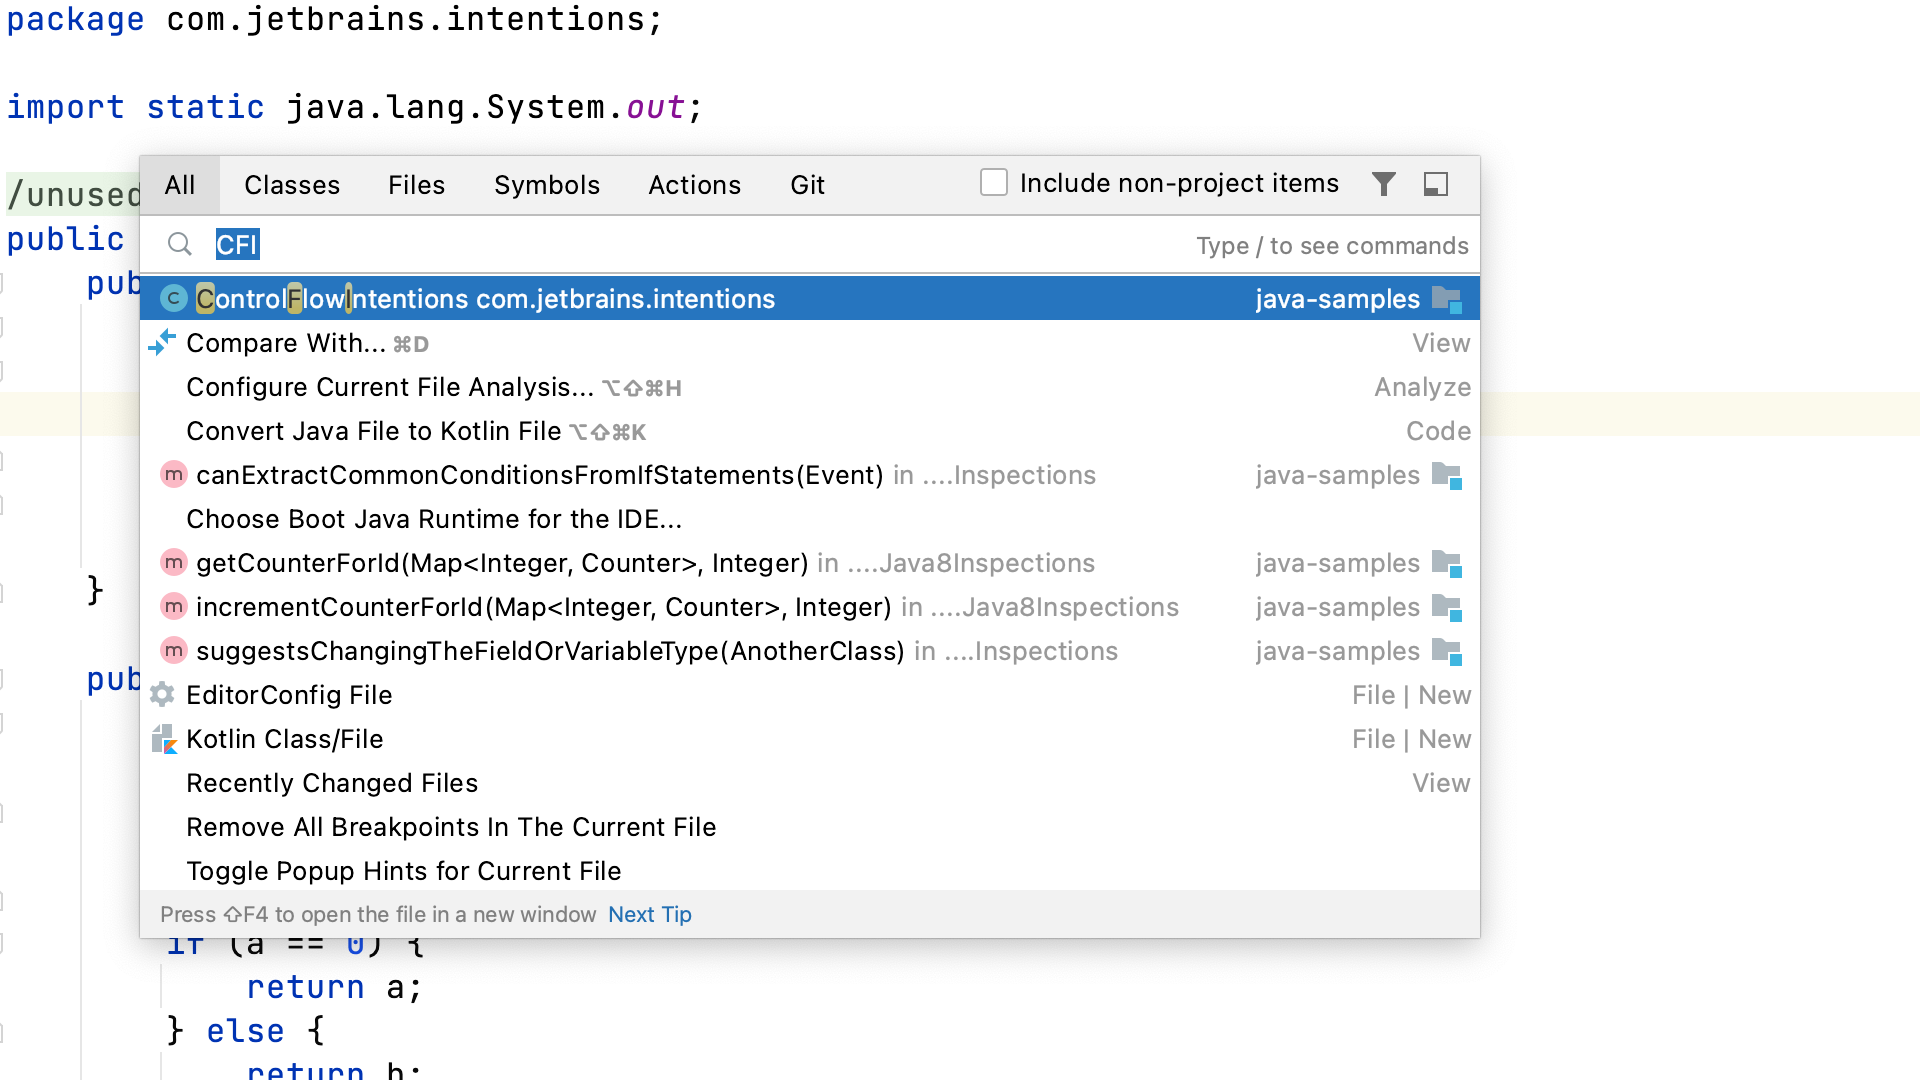
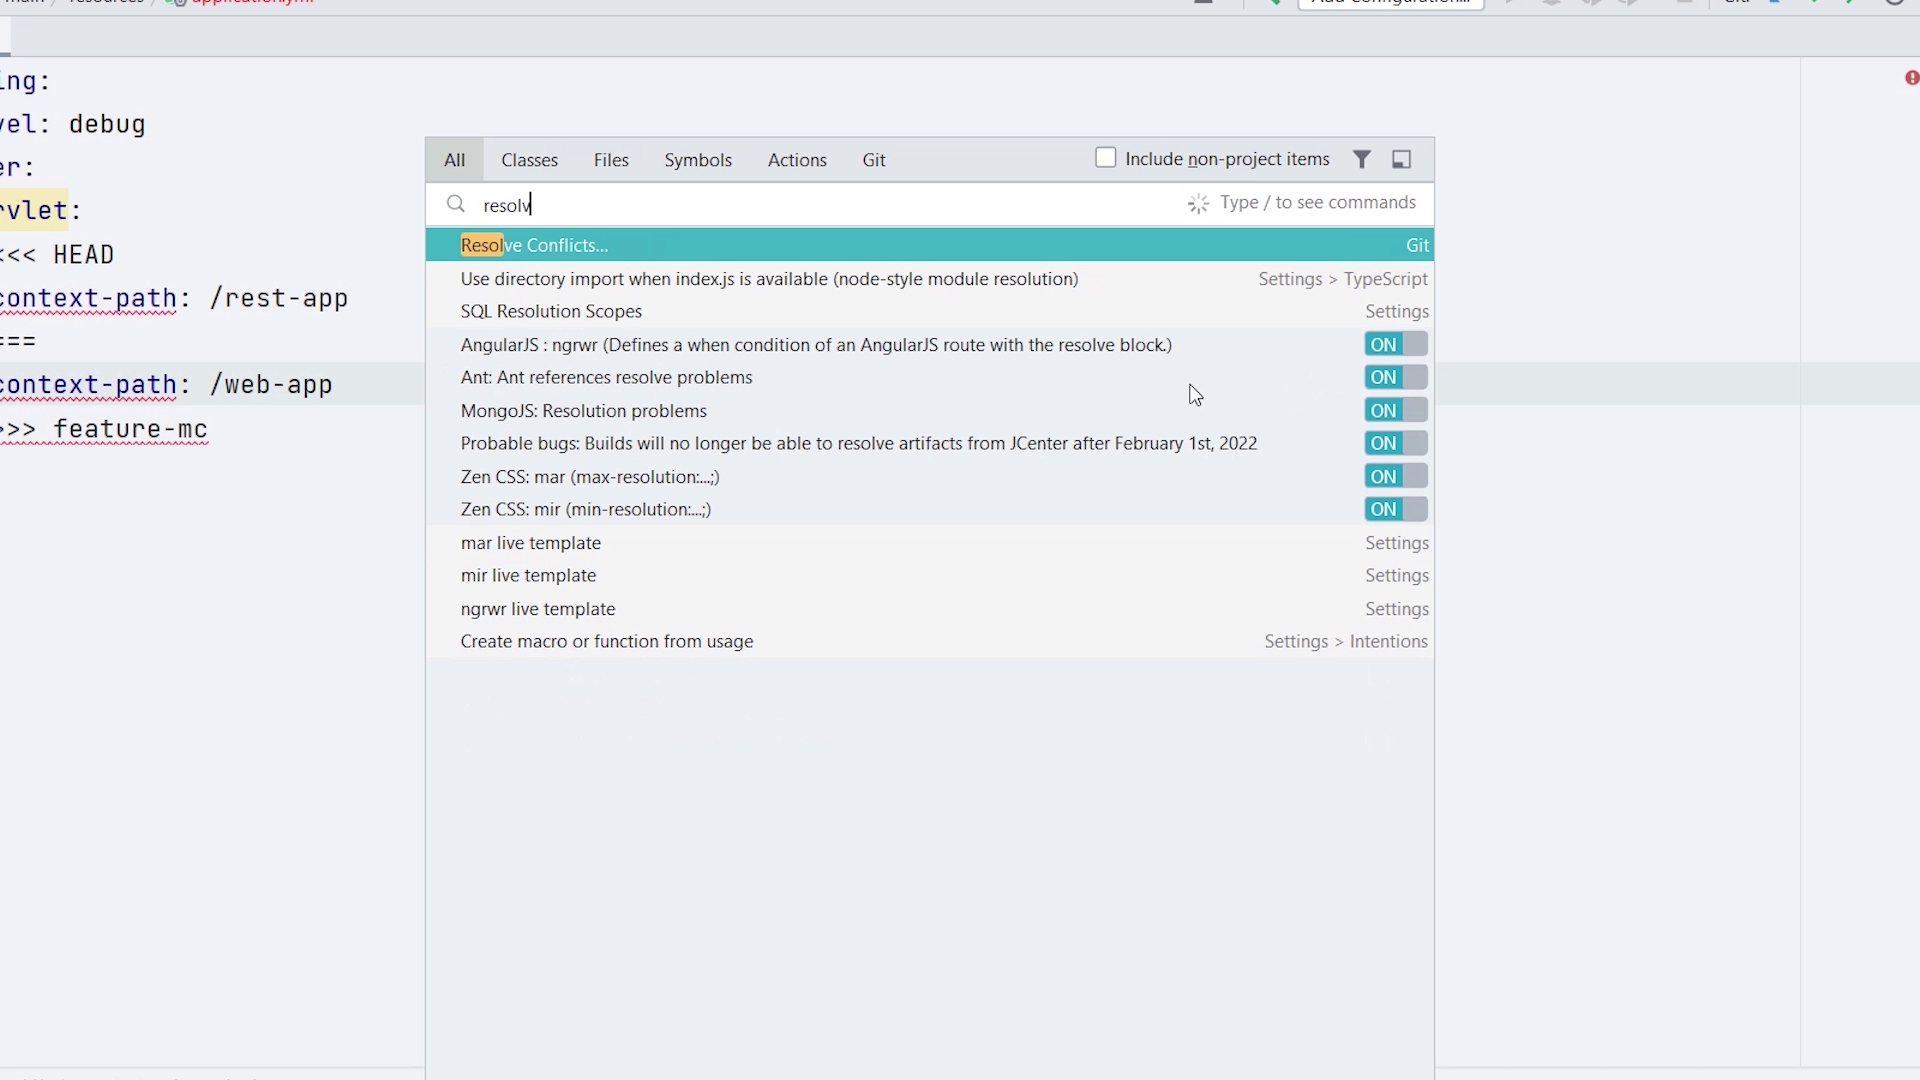
Tip: Resolve Merge Conflicts in IntelliJ

diff --git a/sites/intellij-guide/contents/tips/resolve-merge-conflicts/index.md b/sites/intellij-guide/contents/tips/resolve-merge-conflicts/index.md
@@ -1,10 +1,11 @@
 ---
-date: 2021-09-06
+hasBody: true
+date: 2021-09-13
 title: Resolve Merge Conflicts in VCS
 technologies: [java]
-topics: [settings, editing]
+topics: [settings, vcs, editing]
 author: vb
-subtitle: Resolve Merge Conflicts
+subtitle: Use VCS Options in IntelliJ to resolve merge conflicts visually
 thumbnail: ./thumbnail.png
 cardThumbnail: ./card.png
 shortVideo:
@@ -12,8 +13,10 @@ shortVideo:
   url: https://youtu.be/tGxG3KZkRQI  
 seealso:
   - title: IntelliJ IDEA Help - Resolving Merge Conflicts
-    href: https://www.jetbrains.com/help/idea/searching-everywhere.html
+    href: https://www.jetbrains.com/help/idea/resolving-conflicts.html
 leadin: |
-  Use **⇧⇧** (macOS), or **Shift+Shift** (Windows/Linux), to bring up the Search Everywhere dialog. You can type in CamelCase to search across Classes, Files, Symbols, Actions and Git. 
+  Use **⇧⇧** (macOS), or **Shift+Shift** (Windows/Linux), to bring up the Search Everywhere dialog and you can search for **Resolve Conflicts** to open Conflicts dialog that helps in visually Resolving Merge Conflicts between two different branches in VCS. 
   
 ---
+Alternately, you can open Conflicts dialog by using **VCS -> Resolve Conflicts** option available in ToolBar. 
+Resolving Merge Conflicts visually is really easy and convenient way in carefully merging different versions of code that are developed by different contributors. 
